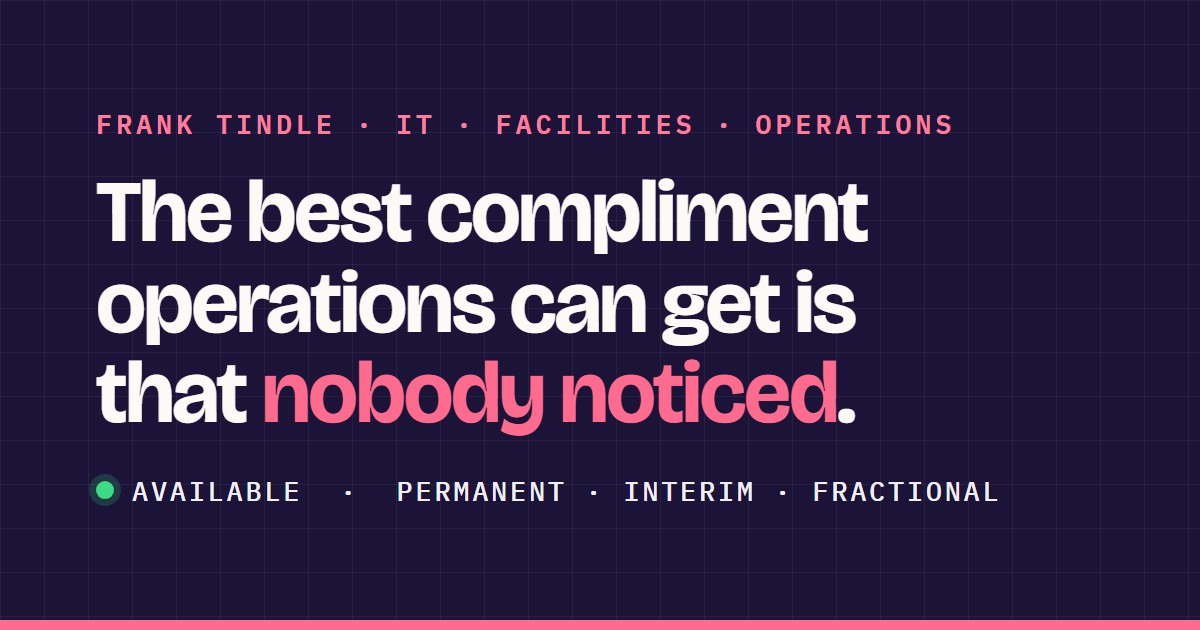
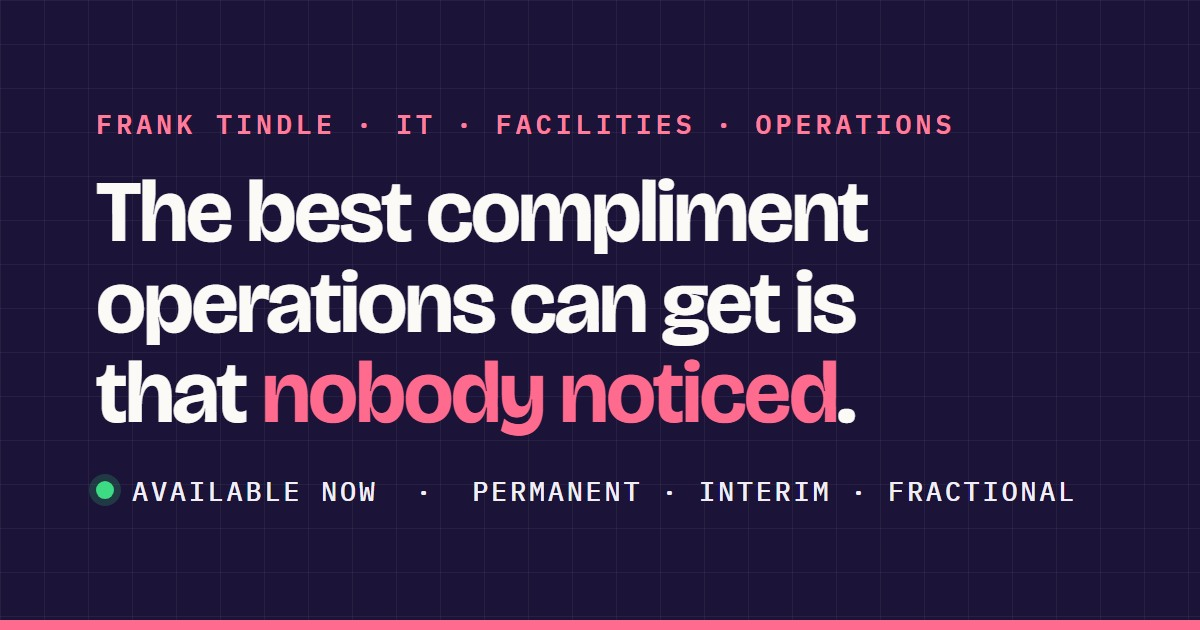
Availability: say 'Available now', drop the date
Hero, interim line, page description, llms.txt and the link-preview
image no longer carry a date, so nothing needs updating later.

Changed region(s): [[0.2467, 0.754, 0.8942, 0.8143]]

diff --git a/index.html b/index.html
@@ -5,9 +5,9 @@
 <meta name="viewport" content="width=device-width, initial-scale=1">
 
 <title>Frank Tindle · IT &amp; Facilities Director · Interim, fractional, permanent</title>
-<meta name="description" content="IT, facilities and operations director. Thirty-one years running the operational half of growing businesses: IT, buildings, security, procurement. Available from 6 October 2026 for interim and fractional engagements, and the right permanent role. London / Guildford, open to relocating.">
+<meta name="description" content="IT, facilities and operations director. Thirty-one years running the operational half of growing businesses: IT, buildings, security, procurement. Available now for interim and fractional engagements, and the right permanent role. London / Guildford, open to relocating.">
 <meta property="og:title" content="Frank Tindle · IT &amp; Facilities Director">
-<meta property="og:description" content="Thirty-one years running the operational half of growing businesses. Available from 6 October 2026 - interim, fractional, or the right permanent role.">
+<meta property="og:description" content="Thirty-one years running the operational half of growing businesses. Available now - interim, fractional, or the right permanent role.">
 <meta property="og:type" content="website">
 <meta property="og:url" content="https://franktindle.com">
 <meta property="og:image" content="https://franktindle.com/share.jpg">
@@ -243,7 +243,7 @@ a{color:inherit}
     </div>
     <h1>The best compliment operations can get is that <em>nobody noticed</em>.</h1>
     <p class="standfirst">Thirty-one years running IT, security, buildings and procurement for businesses that are changing shape. Grow fast enough, or shrink fast enough, and your operation becomes the thing holding you back. I stop that happening.</p>
-    <p class="avail">Available from 6 October 2026 <span>Interim · Fractional · The right permanent role</span></p>
+    <p class="avail">Available now <span>Interim · Fractional · The right permanent role</span></p>
     <div class="hero-actions">
       <a class="btn btn-solid" href="https://bookings.cloud.microsoft/bookwithme/user/61244ec64a384a03bab0bd0f76595756%40franktindle.com?anonymous&amp;ismsaljsauthenabled" target="_blank" rel="noopener" data-goatcounter-click="click-book-hero">Book a call</a>
       <a class="btn btn-ghost" href="https://www.linkedin.com/in/ftindle" target="_blank" rel="noopener" data-goatcounter-click="click-linkedin-hero">LinkedIn</a>
@@ -335,7 +335,7 @@ a{color:inherit}
     <div class="ways">
       <div><h3>A fixed project</h3><p>An office move, an integration, a cost-out, a security review. Scoped, priced, with an end date.</p></div>
       <div><h3>A day or two a week</h3><p>Your IT or operations director, fractionally. For 30 to 400 people who’ve outgrown ad-hoc IT: run by whoever knows most, and nobody’s actual job.</p></div>
-      <div><h3>Interim cover</h3><p>Full-time while you hire, restructure or get through a deal. Available from 6 October.</p></div>
+      <div><h3>Interim cover</h3><p>Full-time while you hire, restructure or get through a deal. Available now.</p></div>
       <div><h3>Permanent</h3><p>For the right business. Half an hour on a call is usually enough to tell which of these fits.</p></div>
     </div>
 
